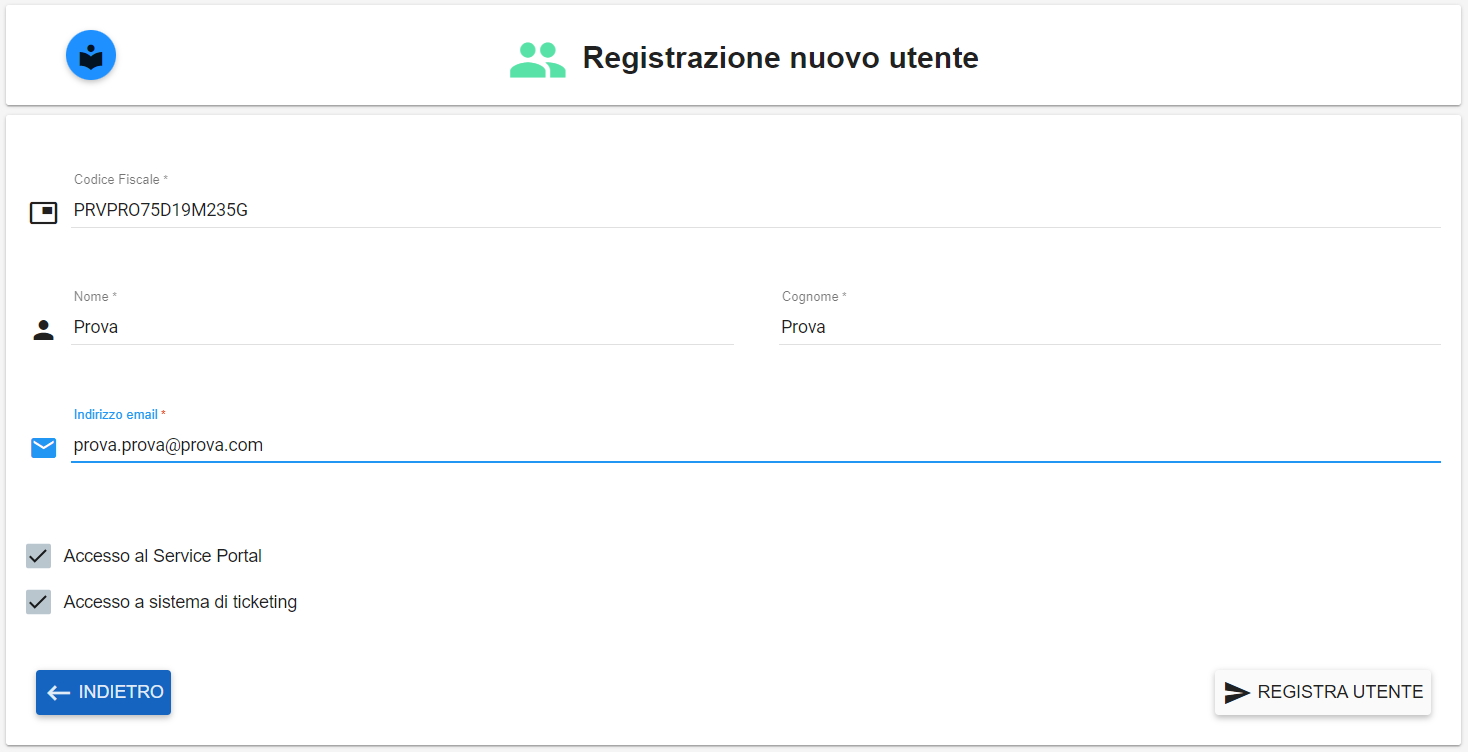
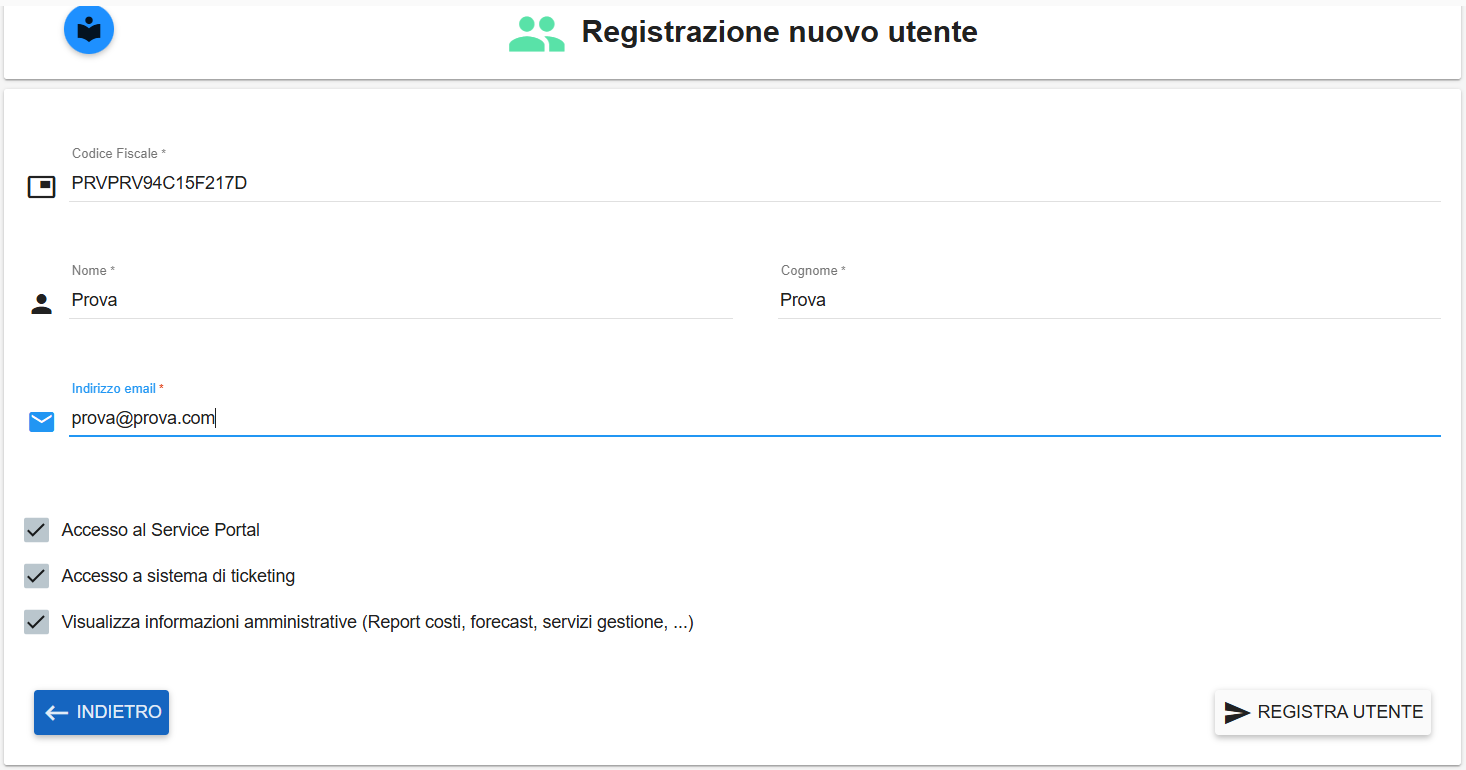
250414commit.1

diff --git a/docs/Come_fare_per/100.35_Creare_nuovo_ticket.rst b/docs/Come_fare_per/100.35_Creare_nuovo_ticket.rst
@@ -9,7 +9,7 @@ sotto **Assistenza**:
 
 
 Il sistema popolerà la parte destra del video con l'elenco delle scelte guidate suddivise per macro argomenti.
-Selezionando attraverso un click una delle seguenti voci:
+Selezionare una delle seguenti voci a seconda del tipo di problema/necessità:
 
 - **Malfunzionamento**
 
@@ -25,32 +25,75 @@ Selezionando attraverso un click una delle seguenti voci:
 
 - **Informazioni**
 
-Verranno visualizzati tutti, oppure una sottoparte, dei seguenti bottoni: 
-(a seconda del macro argomenti selezionato inizialmente)
+|
+
+Nel caso si selezionino le prime due voci, **Malfunzionamento** e **Rallentamento**, comparirà la seguente schermata di scelta:
+
+.. image:: img/100.35_Nuovo_Ticket2.png
+
+|
+
+Selezionando la prima opzione **CHATTA CON UNO SPECIALISTA** verrà aperta la chat
+
+.. image:: img/100.35_Chat1.png
+
+con cui sarà possibile interagire con l'operatore.
+
+|
+
+In caso l'apertura della chat avvenga fuori dagli orari di servizio, sarà possibile specificare di essere ricontattati indicando telefono e/o mail
+
+.. image:: img/100.35_Chat2.png
+
+.. image:: img/100.35_Chat3.png
+
+.. image:: img/100.35_Chat4.png
+
+Cliccando sui tre puntini in alto a sinistra è possibile scaricare la conversazione avvenuta, quindi cliccare su **Salva** in basso a destra
+
+.. image:: img/100.35_Chat5.png
+
+.. image:: img/100.35_Chat6.png
+
+Infine per chiudere la chat, cliccare sul pulsante in basso **Fine Chat**
+
+.. image:: img/100.35_Chat7.png
+
+L'icona relativa alla chat sarà comunque sempre presente sulla destra e la funzionalità richiamabile in qualsiasi momento cliccandoci sopra
+(ricordiamo solamente in relazione alle voci **Malfunzionamento** e **Rallentamento**)
+
+.. image:: img/100.35_Chat8.png
+
+|
+
+Selezionando invece la seconda opzione **CONTINUA CON LA COMPILAZIONE** oppure nel caso si sia selezonato inizialmente una delle altre voci 
+(Nuovo servizio, Modifica servizio, Dismissione servizio, Backup e ripristino, Informazioni) verranno visualizzati tutti, oppure una sottoparte, 
+dei seguenti bottoni:
 
 .. image:: img/100.35_Nuovo_TicketBottoniDX.png
+
+|
 
 Una volta selezionato il bottone relativo all'argomento interessato, si apre il vero e proprio form di compilazione del ticket:
 
 .. image:: img/100.35_Nuovo_TicketInsDatiiDX.png
 
+|
+
 Di seguito il dettaglio dei dati di input richiesti:
 
-- Motivo della segnalazione -> oggetto della richiesta
+•  Motivo della segnalazione -> *oggetto della richiesta*
+ 
+•  Descrizione della segnalazione -> *descrizione della richiesta*
+ 
+•  Urgenza -> *il dato potrebbe essere fisso o modificabile. Fisso nel caso che le scelte del tipo di ticket prevedano un unico livello di urgenza. Quando invece modificabile, i valori potranno essere i seguenti (da selezionare attraverso le relativa combo box): BASSA, MEDIA, ALTA, CRITICA.*
 
+•  Vuoi essere ricontattato telefonicamente? -> *il default è "No". Selezionando "Sì" compariranno le seguenti ulteriori voci:*
 
-- Descrizione della segnalazione -> descrizione della richiesta
-
-
-- Urgenza -> il dato potrebbe essere fisso o modificabile. Fisso nel caso che le scelte del tipo di ticket prevedano un unico livello di urgenza. Quando invece modificabile, i valori potranno essere i seguenti (da selezionare attraverso le relativa combo box): BASSA, MEDIA, ALTA, CRITICA.
-
-- Vuoi essere ricontattato telefonicamente? -> il default è "No". Selezionando "Sì" compariranno le seguenti ulteriori voci:
-
-        - In caso di contatto telefonico preferisco essere contattato di -> i valori potranno essere i seguenti (da selezionare attraverso le relativa combo box): Indifferente (valore di default), Mattina, Pomeriggio.
-        - Telefono -> inserire il numero di telefono in caso di ricontatto
-
-
-- Scegli file -> da utilizzarsi nel caso si necessario allegare un file alla richiesta (ad esempio screenshot dell'errore)
+        - *In caso di contatto telefonico preferisco essere contattato di -> i valori potranno essere i seguenti (da selezionare attraverso le relativa combo box): Indifferente (valore di default), Mattina, Pomeriggio.*
+        - *Telefono -> inserire il numero di telefono in caso di ricontatto*
+ 
+•  Scegli file -> *da utilizzarsi nel caso si necessario allegare un file alla richiesta (ad esempio screenshot dell'errore)*
 
 
 Se si desidera salvare la richiesta come bozza (per poterla inviare in un secondo momento) occorre selezionare il tasto in 
@@ -71,6 +114,8 @@ Se invece si desidera aprire la segnalazione ed inviare subito il ticket occorre
 E si verrà reindirizzati nel menù "**Richieste inviate**" in cui sarà presente il ticket appena creato e inviato:
 
 .. image:: img/100.35_ListaTicket_da_Nuovo_TicketDX.png
+
+|
 
 In automatico si riceverà sulla propria casella di posta elettronica una mail a conferma dell'avvenuta apertura del ticket:
 

diff --git a/docs/Come_fare_per/nonlinkato_15.8_VPN_11-04-25-miaIniziativaAbortita.rst b/docs/Come_fare_per/nonlinkato_15.8_VPN_11-04-25-miaIniziativaAbortita.rst
@@ -167,67 +167,72 @@ Bisognerà aprire un ticket selezionando la voce “VPN” includendo i dati ric
 
 |
 
-**Modifica richiesta (novità per i master di account)**
-=======================================================
+**Modifica di una richiesta VPN precedentemente inserita**
+==========================================================
 
-A partire dall'elenco delle richieste effettuate su un account:
+Dopo aver effettuato il login sul Service Portal seguire i seguenti passaggi:
 
-.. image:: img/15.8_vpn37.png
+1)	Effettuare la selezione dal menù in alto del profilo di Master sull’account sul quale l’ *Utente* del servizio VPN SSL dovrà operare:
 
-é ora possibile modificare una richiesta premendo il pulsante:
+.. image:: img/15.8_vpn1.png
 
-.. image:: img/15.8_vpn30.png
+2)	Andare nel menù laterale e seguire il percorso **Servizi -> Reti e Sicurezza -> VPN SSL**
 
-.. image:: img/15.8_vpn38.png
+Comparirà la seguente interfaccia:
 
-|
+.. image:: img/15.8_vpn2.png
 
-**Reinvio codice (novità per i master di account)**
-===================================================
+Comparirà l'elenco delle richieste già effettuate con i relativi stati di avanzamento.
 
-Sempre a partire dall'elenco delle richieste effettuate su un account:
+Seleziona una richiesta in stato INVIATA oppure SCADUTA.
 
-.. image:: img/15.8_vpn37.png
+.. image:: img/15.8_vpn20.png
 
-é ora possibile reinviare il codice di attivazione via SMS premendo il pulsante:
+3) Premere il pulsante di modifica
 
-.. image:: img/15.8_vpn31.png
+.. image:: img/15.8_vpn21.png
 
-.. image:: img/15.8_vpn39.png
+4) Compariranno i dati inseriti in precedenza.
 
-**Per entrambe le opzioni IL REQUISITO E' CHE LA RICHIESTA SIA:**
+.. image:: img/15.8_vpn8.png
 
-- **IN STATO INVIATA: cioè sia stata compilata e salvata ma l'utente destinatario non abbia ancora inserito il codice**
+.. image:: img/15.8_vpn10.png
 
-- **IN STATO SCADUTA: cioè il codice di attivazione è scaduto**
-
-**ANCHE LA MODIFICA DI UNA RICHIESTA COMPORTA L'EMISSIONE DI UN NUOVO CODICE DI ATTIVAZIONE.**
-
-**Tutte le modifiche vengono registrate in uno storico.**
-
-.. image:: img/15.8_vpn32.png
+5) Una volta modificati tutti i dati premere "VERIFICA E PROSEGUI", e quindi alla successiva schermata riassuntiva premere "CONFERMA"
 
 |
 
-**Nuovo cruscotto per il monitoraggio delle richieste VPN destinato agli Amministratori di backoffice (con possibilità di rilanciare un task in errore e scaricare la scheda di provisioning in PDF)**
-======================================================================================================================================================================================================
+**Richiesta reinvio codice di attivazione senza entrare in modifica**
+=====================================================================
 
-Dalla voce di menù laterale Amministrazione compare la nuova voce **Gestione Richieste VPN**
+Dopo aver effettuato il login sul Service Portal seguire i seguenti passaggi:
 
-.. image:: img/15.8_vpn36.png
+1)	Effettuare la selezione dal menù in alto del profilo di Master sull’account sul quale l’ *Utente* del servizio VPN SSL dovrà operare:
 
-Si accede all'elenco delle richieste inizialmente filtrate per **ERRORE** e **SCADUTE** (il codice SMS è stato inviato oltre 7 giorni fa)
+.. image:: img/15.8_vpn1.png
 
-E' possibile selezionarne una in ERRORE e premere seguente pulsante per riavviare il processo di creazione:
+2)	Andare nel menù laterale e seguire il percorso **Servizi -> Reti e Sicurezza -> VPN SSL**
 
-.. image:: img/15.8_vpn33.png
+Comparirà la seguente interfaccia:
 
-|
+.. image:: img/15.8_vpn2.png
 
-Premendo il seguente pulsante è possibile scaricare la scheda di provisioning in PDF (per qualsiasi stato in cui si trovi la richiesta):
+Comparirà l'elenco delle richieste già effettuate con i relativi stati di avanzamento.
 
-.. image:: img/15.8_vpn34.png
+Seleziona una richiesta in stato INVIATA oppure SCADUTA.
 
-.. image:: img/15.8_vpn35.png
+.. image:: img/15.8_vpn20.png
 
-**Si ricorda che la detta procedura si occupa esclusivamente dell'automazione del profilo 2000_nivola_management: qualsiasi altro profilo va aggiunto come previsto dalle procedure manuali già in essere.**
+3) Premere il pulsante di modifica "Reinvia codice di attivazione"
+
+.. image:: img/15.8_vpn22.png
+
+4) Comparirà la seguente schermata
+
+.. image:: img/15.8_vpn23.png
+
+il nuovo codice SMS sostituisce il precedente
+
+
+RIPRENDERE DA TEST 04 – L’utente destinatario accede al service portal e vede la notifica di richiesta in sospeso. OK
+E GUARDRE MAIL ANDREA E FARE UN MISTO

diff --git a/docs/Come_fare_per/16.6_Eliminazione_Share.rst b/docs/Come_fare_per/16.6_Eliminazione_Share.rst
@@ -1,0 +1,23 @@
+.. _Eliminazione_Share:
+
+**Eliminazione Share**
+**********************
+
+Selezionare lo share che si desidera eliminare, cliccare sul bottone **Elimina Share**, verrà aperta la finestra di cancellazione
+
+.. image:: img/16.6_Eliminazione_Share1.png
+
+|
+
+Se lo share selezionato è una replica oppure uno share a cui non sono legate delle repliche, sarà possibile procedere nell’eliminazione. 
+Verrà chiesta prima conferma, e poi verrà chiesto di inserire il nome dello share selezionato per conferma
+
+.. image:: img/16.6_Eliminazione_Share2.png
+
+.. image:: img/16.6_Eliminazione_Share3.png
+
+|
+
+Se invece lo share selezionato ha delle repliche collegate non sarà possibile procedere con l’eliminazione
+
+.. image:: img/16.6_Eliminazione_Share4.png

diff --git a/docs/Come_fare_per/05.10_Creare_Utente_in_SP.rst b/docs/Come_fare_per/05.10_Creare_Utente_in_SP.rst
@@ -43,7 +43,13 @@ Di default risulteranno selezionate le due seguenti opzioni:
 
   .. image:: img/05.10_Accessi.png
 
-per permettere l'accesso al Portale Nivola e per permettere di aprire delle segnalazioni (ticket) di implementazione/supporto.
+rispettivamente per permettere:
+
+-  l'accesso al Portale Nivola
+
+- l'apertura delle segnalazioni (ticket) di implementazione/supporto
+
+- la visualizzazione e l'accesso ai report dei costi e dei consumi relativamente al proprio account
 
 
 Se la mail inserita appartiene a un dominio **CSI** automaticamente comparirà anche il campo **Matricola CSI** per permettere all'utente di inserire la propria matricola.

diff --git a/docs/Notes/index_ReleaseNotes.rst b/docs/Notes/index_ReleaseNotes.rst
@@ -5,6 +5,25 @@
 **Portale**
 ***********
 
+.. _release-4.16.0:
+
+Service Portal 4.16.0 (2025-04-14)
+----------------------------------
+
+•  introduzione Chat e aggiornamento vista nuovo ticketing
+
+•  introduzione nuovo attributo utente che permette o nega l’accesso alle informazioni di tipo amministrativo relativo all’account/division
+
+•  gestione attributo ultimo accesso utente
+
+•  report CSV consumi per istanza di servizio
+
+•  aggiornamento flusso creazione VPN
+
+•  aumentata coerenza tasti navigazione e uso colori
+
+|
+
 .. _release-4.15.1:
 
 Service Portal 4.15.1 (2025-03-20)

diff --git a/docs/Future/future_Release.rst b/docs/Future/future_Release.rst
@@ -5,24 +5,9 @@
 **Portale**
 ***********
 
-*Versione 4.16*
+*Versione 4.16.x*
 
-*Data prevista: lunedì 14 aprile 2025*
-
-*Nuove funzionalità/Improvement*
-
-•  introduzione Chat e aggiornamento vista nuovo ticketing
-
-•  introduzione nuovo attributo utente che permette o nega l’accesso alle informazioni di tipo amministrativo relativo all’account/division
-
-•  report CSV consumi per istanza di servizio
-
-•  aggiornamento flusso creazione VPN
-
-
-*Bug fixing*
-
-•  aumentata coerenza tasti navigazione e uso colori
+*Data prevista*
 
 |
 
